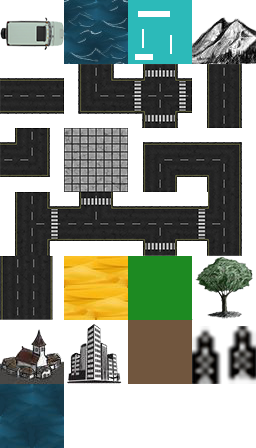
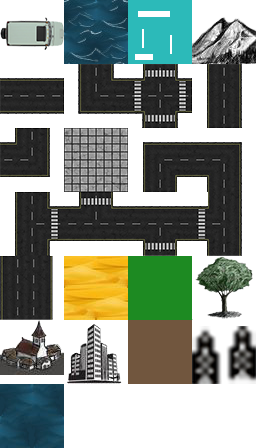
UI is drawn based on what has, and has not been selected.

Changed region(s): [[0.0, 0.7188, 0.25, 0.875]]

diff --git a/wsTotal/TotalAnnihilationRoadRage/src/com/totalannihilationroadrage/TacticalCombatScreen.java b/wsTotal/TotalAnnihilationRoadRage/src/com/totalannihilationroadrage/TacticalCombatScreen.java
@@ -73,6 +73,11 @@ public class TacticalCombatScreen extends Screen
         float x, y;
 
         int len = touchEvents.size();
+        if((selectedVehicle != null) && (pState == PhaseStates.Moving))
+        {
+            updateMove(touchEvents,(selectedVehicle.xPos * tcWorld.tmBattleGround.tileWidth) - cameraX, (selectedVehicle.yPos * tcWorld.tmBattleGround.tileHeight) - cameraY);
+        }
+
         for(int i = 0; i < len; i++)
         {
             Input.TouchEvent event = touchEvents.get(i);
@@ -146,10 +151,6 @@ public class TacticalCombatScreen extends Screen
             }
             previousTouchX = x;
             previousTouchY = y;
-        }
-        if((selectedVehicle != null) && (pState == PhaseStates.Moving))
-        {
-            updateMove(touchEvents,(selectedVehicle.xPos * tcWorld.tmBattleGround.tileWidth) - cameraX, (selectedVehicle.yPos * tcWorld.tmBattleGround.tileHeight) - cameraY);
         }
 	}
 
@@ -266,32 +267,52 @@ public class TacticalCombatScreen extends Screen
 
         srcX = (index % numColumns) * tileHeight;
         srcY = (index++ / numColumns) * tileWidth;
-        g.drawPixmap(Assets.roadTileSheet, posX + (tileWidth * 2), posY, srcX, srcY, tileWidth, tileHeight);            //move straight
+        if(selectedVehicle.isStraight)
+        {
+            g.drawPixmap(Assets.roadTileSheet, posX + (tileWidth * 2), posY, srcX, srcY, tileWidth, tileHeight);            //move straight
+        }
 
         srcX = (index % numColumns) * tileHeight;
         srcY = (index++ / numColumns) * tileWidth;
-        g.drawPixmap(Assets.roadTileSheet, posX + (tileWidth * 2), posY - tileHeight, srcX, srcY, tileWidth, tileHeight);      //move left
+        if(selectedVehicle.isLeft)
+        {
+            g.drawPixmap(Assets.roadTileSheet, posX + (tileWidth * 2), posY - tileHeight, srcX, srcY, tileWidth, tileHeight);      //move left
+        }
 
         srcX = (index % numColumns) * tileHeight;
         srcY = (index++ / numColumns) * tileWidth;
-        g.drawPixmap(Assets.roadTileSheet, posX + (tileWidth * 2), posY + tileHeight, srcX, srcY, tileWidth, tileHeight);       // move right
+        if(selectedVehicle.isRight)
+        {
+            g.drawPixmap(Assets.roadTileSheet, posX + (tileWidth * 2), posY + tileHeight, srcX, srcY, tileWidth, tileHeight);       // move right
+        }
 
         srcX = (index % numColumns) * tileHeight;
         srcY = (index++ / numColumns) * tileWidth;
-        g.drawPixmap(Assets.roadTileSheet, posX + tileWidth, posY - tileHeight, srcX, srcY, tileWidth, tileHeight);       //left turn
+        if(selectedVehicle.isTurnedLeft)
+        {
+            g.drawPixmap(Assets.roadTileSheet, posX + tileWidth, posY - tileHeight, srcX, srcY, tileWidth, tileHeight);       //left turn
+        }
 
         srcX = (index % numColumns) * tileHeight;
         srcY = (index++ / numColumns) * tileWidth;
-        g.drawPixmap(Assets.roadTileSheet, posX + tileWidth, posY + tileHeight, srcX, srcY, tileWidth, tileHeight);       //right turn
+        if(selectedVehicle.isTurnedRight)
+        {
+            g.drawPixmap(Assets.roadTileSheet, posX + tileWidth, posY + tileHeight, srcX, srcY, tileWidth, tileHeight);       //right turn
+        }
 
         srcX = (index % numColumns) * tileHeight;
         srcY = (index++ / numColumns) * tileWidth;
-        g.drawPixmap(Assets.roadTileSheet, posX + tileWidth, posY, srcX, srcY, tileWidth, tileHeight);            //accelerate
+        if(selectedVehicle.isAccelerated)
+        {
+            g.drawPixmap(Assets.roadTileSheet, posX + tileWidth, posY, srcX, srcY, tileWidth, tileHeight);            //accelerate
+        }
 
         srcX = (index % numColumns) * tileHeight;
         srcY = (index++ / numColumns) * tileWidth;
-        g.drawPixmap(Assets.roadTileSheet, posX - tileWidth, posY, srcX, srcY, tileWidth, tileHeight);            //break
-
+        if(selectedVehicle.isBraked)
+        {
+            g.drawPixmap(Assets.roadTileSheet, posX - tileWidth, posY, srcX, srcY, tileWidth, tileHeight);            //break
+        }
 
         /*g.drawPixmap(Assets.roadTileSheet, posX - tileWidth, posY, 32, 224, tileWidth, tileHeight);            //break
         g.drawPixmap(Assets.roadTileSheet, posX + tileWidth, posY, 96, 192, tileWidth, tileHeight);            //accelerate
@@ -344,14 +365,13 @@ public class TacticalCombatScreen extends Screen
                     //Move straight
 
                     System.out.println("moved straight");
+                    selectedVehicle.isStraight = true;
                 }
-                if(inBoundaryCheck(event.x, event.y, posX + (tileWidth * 2), posY - tileHeight, tileWidth, tileHeight))
-                {
+                if (inBoundaryCheck(event.x, event.y, posX + (tileWidth * 2), posY - tileHeight, tileWidth, tileHeight)) {
                     //Move left
                     System.out.println("moved left");
                 }
-                if(inBoundaryCheck(event.x, event.y,posX + (tileWidth * 2), posY + tileHeight, tileWidth, tileHeight))
-                {
+                if (inBoundaryCheck(event.x, event.y, posX + (tileWidth * 2), posY + tileHeight, tileWidth, tileHeight)) {
                     //Move right
                     System.out.println("moved right");
                 }
@@ -359,22 +379,35 @@ public class TacticalCombatScreen extends Screen
                 {
                     //Left turn
                     System.out.println("left turn");
+                    selectedVehicle.isTurnedRight = false;
+                    selectedVehicle.isTurnedLeft = true;
+                    selectedVehicle.isStraight = false;
+                    selectedVehicle.isLeft = true;
+                    selectedVehicle.isRight = false;
                 }
                 if(inBoundaryCheck(event.x, event.y, posX + tileWidth, posY + tileHeight, tileWidth, tileHeight))
                 {
                     //right turn
                     System.out.println("right turn");
+                    selectedVehicle.isTurnedRight = true;
+                    selectedVehicle.isTurnedLeft = false;
+                    selectedVehicle.isStraight = false;
+                    selectedVehicle.isLeft = false;
+                    selectedVehicle.isRight = true;
                 }
                 if(inBoundaryCheck(event.x, event.y, posX + tileWidth, posY, tileWidth, tileHeight))
                 {
                     //accelerate
                     System.out.println("accelerate");
+                    selectedVehicle.isAccelerated = true;
+                    selectedVehicle.isBraked = false;
                 }
                 if(inBoundaryCheck(event.x, event.y, posX - tileWidth, posY, tileWidth, tileHeight))
                 {
                     //break
                     System.out.println("break");
-
+                    selectedVehicle.isBraked = true;
+                    selectedVehicle.isAccelerated = false;
                 }
 
             }

diff --git a/wsTotal/TotalAnnihilationRoadRage/src/com/totalannihilationroadrage/TacticalCombatVehicle.java b/wsTotal/TotalAnnihilationRoadRage/src/com/totalannihilationroadrage/TacticalCombatVehicle.java
@@ -10,6 +10,13 @@ public class TacticalCombatVehicle
 	int speedCurrent;
 	Direction facing;
 	int maneuverability;
+    boolean isAccelerated = true;
+    boolean isBraked = true;
+    boolean isTurnedLeft = true;
+    boolean isTurnedRight = true;
+    boolean isStraight = true;
+    boolean isRight = false;
+    boolean isLeft = false;
 
     TacticalCombatVehicle (VehicleStatsCurrent v, GangMembers i, GangMembers e, boolean isPlayer)
     {
